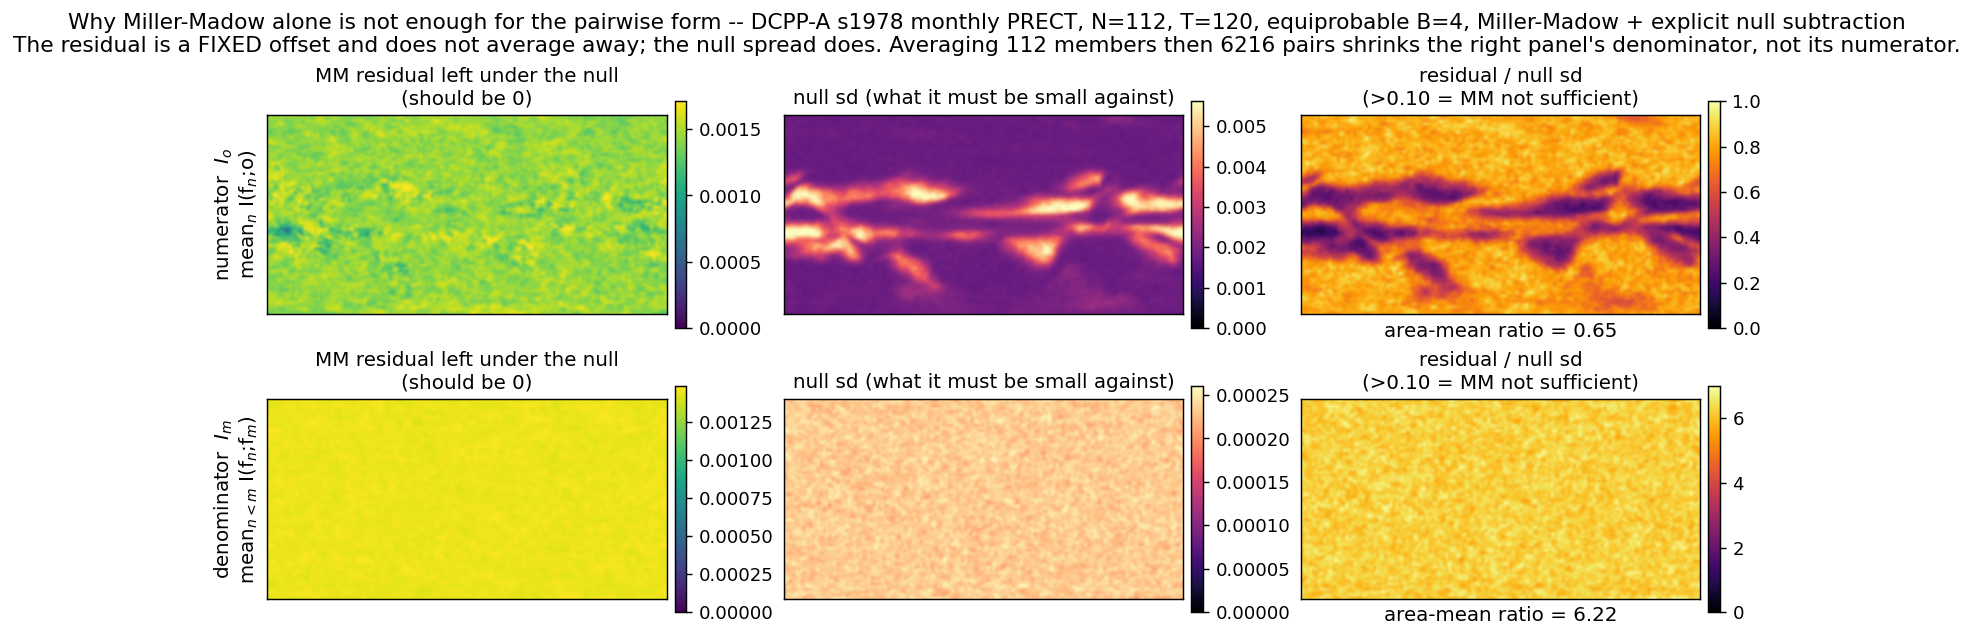
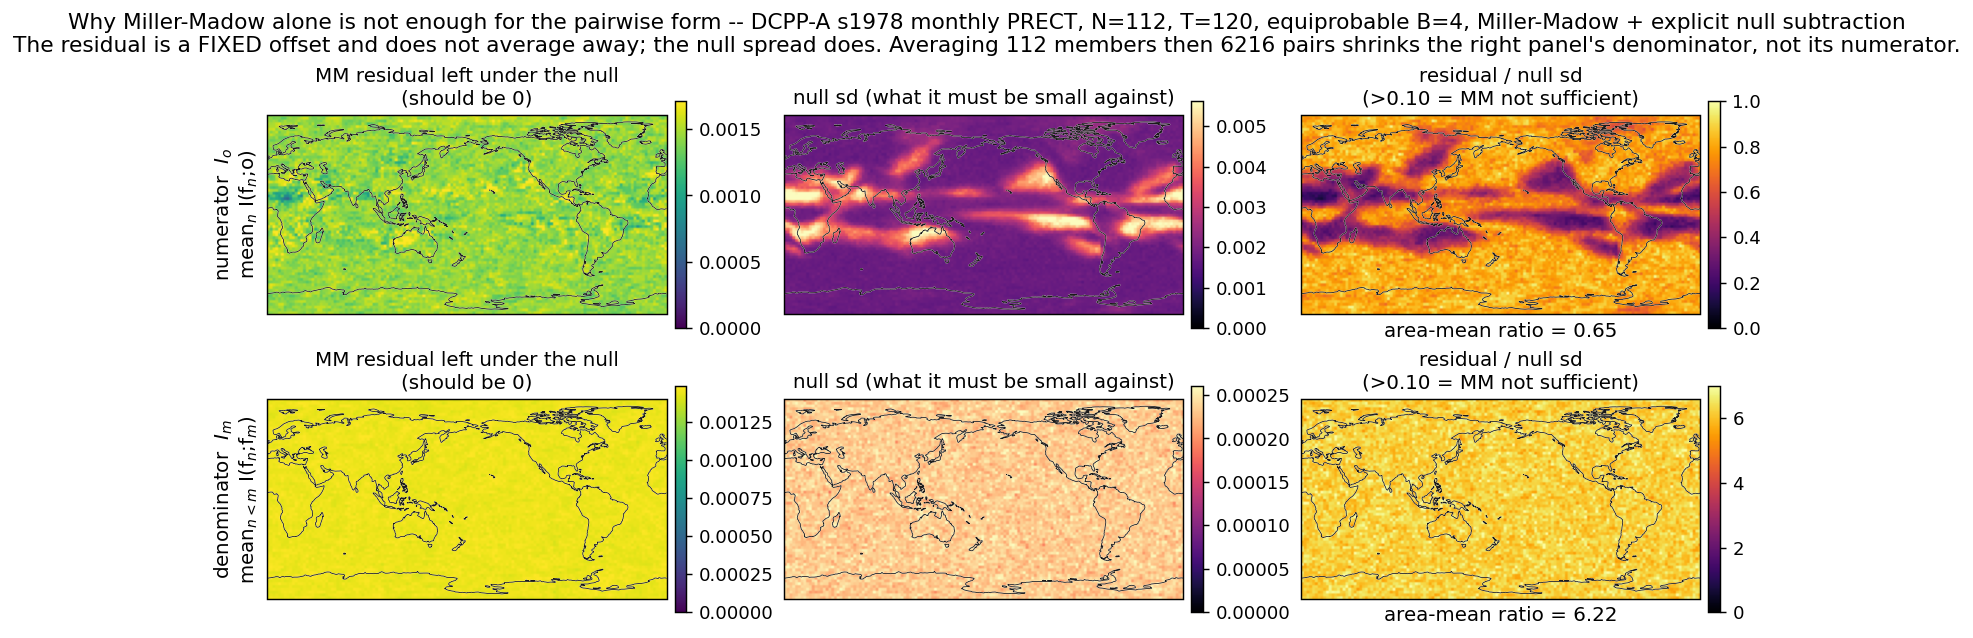
maps: cartopy coastlines on every panel, and all of them the right way up
Two fixes across all seven figure scripts, then every figure in both directories
regenerated: 29 panels sets over SLP s1961/lead2-4 and PRECT s1978/lead2-4.

**Orientation.** The panels handed a (lat, lon) array straight to imshow with no
origin=. The observational grids run lat[0] = -90 upward and matplotlib defaults
to origin="upper", so figA-figF rendered with the South Pole at the top. Every
map is now origin="lower" on a cartopy PlateCarree axes: Arctic top, Antarctic
bottom. figG was already correct and is unchanged in that respect.

**Coastlines.** Natural Earth 110m over every map, stroked twice -- a
translucent white line under a dark one -- because these panels span jet, magma,
inferno and RdBu_r and no single line colour is legible on all four. This turns
several README claims from assertions into things a reader can check: figD's
non-Gaussian excess does sit on the warm pool, the SPCZ, the ITCZ, Amazonia and
the South Asian monsoon, while the estimator-bias panel beside it is visibly
flat.

New .claude/scripts/tmp_mapaxes.py owns the projection, the orientation, the
cell-edge extent and the coastline style, and the other six scripts import it --
one place to change a map convention rather than seven. extent comes from cell
EDGES via the midpoint rule, not centres: on the 5 deg HadSLP2r grid whose
centres run 0..355 a centre-based extent would offset the field 2.5 deg from the
coastline. Longitude still runs 0-360 with the Pacific centred, so these figures
[…]

diff --git a/figures/pairwise-exploratory/README.md b/figures/pairwise-exploratory/README.md
@@ -70,26 +70,37 @@ figC panels remain directly comparable. The ratio panels are unchanged at `RdBu_
 
 ## 3. The non-Gaussian excess — the result that did NOT survive on SLP
 
-`figD_excess_{member,lam_minus_rho}_SLP_s1961_{ksg,mm}`. λ_o − ρ_o with the
-estimator's own bias subtracted, measured against a Gaussian-copula surrogate with the
-same per-pair rank correlation. For a jointly Gaussian pair λ = |ρ| exactly, so this
-is zero under Gaussianity.
+`figD_excess_{member,loo}_SLP_s1961_{ksg,mm}`. λ_o − ρ_o with the estimator's own bias
+subtracted, measured against a Gaussian-copula surrogate with the same per-pair rank
+correlation. For a jointly Gaussian pair λ = |ρ| exactly, so this is zero under
+Gaussianity.
 
 | layout | estimator | λ_o | ρ_o (rank) | raw λ−ρ | estimator bias | **excess** | area +ve |
 |---|---|---|---|---|---|---|---|
-| pairwise (`member`) | KSG | 0.1467 | 0.0883 | +0.0584 | 0.0553 | **+0.0031** | 44.7% |
-| pairwise (`member`) | MM B=4 | 0.0922 | 0.0883 | +0.0039 | 0.0108 | **−0.0069** | 24.8% |
-| LOO (`lam_minus_rho`) | KSG | 0.1607 | 0.1031 | +0.0576 | 0.0467 | **+0.0109** | 46.7% |
-| LOO (`lam_minus_rho`) | MM B=4 | 0.0969 | 0.1031 | −0.0062 | 0.0034 | **−0.0096** | 38.5% |
+| pairwise (`member`) | KSG | 0.1467 | 0.0883 | +0.0584 | 0.0555 | **+0.0029** | 44.9% |
+| pairwise (`member`) | MM B=4 | 0.0922 | 0.0883 | +0.0039 | 0.0109 | **−0.0070** | 25.0% |
+| LOO (`loo`) | KSG | 0.1606 | 0.1031 | +0.0575 | 0.0468 | **+0.0107** | 46.5% |
+| LOO (`loo`) | MM B=4 | 0.0969 | 0.1031 | −0.0062 | 0.0033 | **−0.0095** | 38.8% |
 
 **The excess flips sign between KSG and Miller–Madow**, and is ~10% of ρ_o either way.
 On SLP it therefore cannot be claimed. That constraint is what the PRECT rebuild was
 for, and on PRECT it does not bind — all four configurations there are positive and
 40–65% of ρ_o.
 
-Note the naming: this set's `lam_minus_rho` stem is the **LOO** layout, which the
-PRECT set names `loo`. The files were left under their original names so that the
-prior handoffs' paths still resolve.
+Two bookkeeping notes on this table.
+
+**The excess moves in the fourth decimal between runs, and that is expected.**
+Everything on the data side — λ_o, both ρ_o, the raw difference — reproduces bit for
+bit. Only `estimator_bias` shifts, by ~8e-5, because the Gaussian-copula surrogate
+stream is re-seeded per member block and the block size is a memory choice rather than
+a statistical one. The excess is that bias subtracted, so it inherits the wobble: the
+KSG pairwise figure has read +0.0031 and +0.0029 on two runs. The sign, which is the
+whole point, does not move.
+
+**This set's figD files used to be named `figD_excess_lam_minus_rho_*`.** They are the
+LOO layout, so they are now `figD_excess_loo_*`, matching the PRECT set. Prior
+handoffs that cite `figD_excess_member_SLP_s1961_mm.json` are unaffected — that stem
+is unchanged — and the old names remain in git history.
 
 ## 4. ρ_o is one field measured three ways
 
@@ -175,7 +186,7 @@ invisible at large n — against the known −6/(n+1) bias of the uncorrected g2
 | `figA_pairwise_vs_loo_SLP_{s1961,lead2-4}` | pairwise vs LOO: debiased signal, null sd, z, numerator and denominator |
 | `figB_mm_residual_SLP_{s1961,lead2-4}` | why Miller–Madow alone fails |
 | `figC_pairwise_rpc_SLP_{s1961,lead2-4}` | 3 ρ variants × {pairwise, LOO} × {numerator, denominator, RPC} |
-| `figD_excess_{member,lam_minus_rho}_SLP_s1961_{ksg,mm}` | non-Gaussian excess of the DEPENDENCE, both estimators, both layouts |
+| `figD_excess_{member,loo}_SLP_s1961_{ksg,mm}` | non-Gaussian excess of the DEPENDENCE, both estimators, both layouts |
 | `figE_rho_o_three_ways_SLP_s1961` | pairwise / LOO / ensemble-mean ρ_o |
 | `figF_pairwise_bootstrap_SLP_s1961_B4` | member-subsample bootstrap of the pairwise λ RPC |
 | `figG_marginal_moments_SLP_{s1961,lead2-4}` | MARGINAL distributions: pooled histograms, skewness, excess kurtosis |
@@ -189,15 +200,30 @@ and the original untagged `figA_pairwise_vs_loo.png` / `figB_mm_residual.png` di
 The untagged originals are preserved at
 `$SCRATCH/snp_figs_backup_20260921/pairwise-exploratory/`.
 
-## A caveat that applies to every map in this directory
+## Map conventions
 
-The maps are drawn with `imshow` straight from a `(lat, lon)` array. The observational
-grids run **lat[0] = −90 upward**, and matplotlib's default is `origin="upper"`, so
-every map in figA–figF has the **South Pole at the top**. `figG` passes
-`origin="lower"` and is the right way up. This is a display-only issue — no computed
-number is affected, and the area weights are applied in data space — but the older
-panels are vertically mirrored relative to figG and should be fixed before any of them
-is published.
+Every map panel in this directory is drawn through `tmp_mapaxes.py`, which fixes two
+things that used to be wrong or missing.
+
+**Orientation.** The panels used to hand a `(lat, lon)` array straight to `imshow`
+with no `origin=`. The observational grids run **lat[0] = −90 upward** and
+matplotlib's default is `origin="upper"`, so every map in figA–figF came out with the
+**South Pole at the top**. They are now all `origin="lower"` on a cartopy
+`PlateCarree` axes: **Arctic at the top, Antarctic at the bottom.** This was display
+only — no number in this README changed because of it — but the figures committed
+before this point are vertically mirrored relative to the current ones.
+
+**Coastlines.** Natural Earth coastlines (110 m) are drawn over every map. Each is
+stroked twice, a translucent white line under a dark one, because these panels span
+`jet`, `magma`, `inferno` and `RdBu_r` and no single line colour is legible on all
+four. Without them, claims like "the tropical convective bands" or "the Southern
+Ocean" were assertions a reader could not check.
+
+Longitude runs 0–360 with the Pacific in the middle, which is where the old
+index-space panels put it, so these figures remain horizontally aligned with their
+predecessors. `extent` is built from cell **edges**, not centres — on the 5° HadSLP2r
+grid whose centres run 0–355, a centre-based extent would offset the field half a
+cell from the coastlines.
 
 ## Reproducing
 
@@ -223,6 +249,15 @@ with `--dataset seasonal --lead 2-4 --bins 3` for the seasonal case. Every scrip
 
 `tmp_marginal_moments.py` costs about 1 min for SLP and 3.5 min for PRECT, peaking at
 6.1 GB on the PRECT grid — run it alone, the job's cgroup ceiling is 17.2 GB.
+
+**Every one of those scripts now imports `tmp_mapaxes.py` from the same directory**,
+which owns the projection, the orientation, the cell-edge extent and the coastlines.
+Change a map convention there, once, rather than in seven places. It needs `cartopy`
+(0.25.0 in `VirtualEnv/SNP_env`) and the Natural Earth 110 m coastline shapefile,
+already cached under `~/.local/share/cartopy` — so no download happens at plot time.
+`tmp_mapaxes.grid(var)` reads the observational grid out of the project, which is why
+`tmp_pairwise_figs.py` now needs `SNP_REPO` too: it reads only per-cell npz and had no
+lats/lons of its own to place a coastline against.
 
 Percentages of area throughout are cos(lat)-weighted, including the colour limits of
 figG's maps: an unweighted percentile there is set by the near-polar rows, which carry

diff --git a/figures/pairwise-exploratory-prect/README.md b/figures/pairwise-exploratory-prect/README.md
@@ -63,16 +63,30 @@ Against SLP s1961, same quantity, same code:
 
 | | SLP s1961 | PRECT s1978 |
 |---|---|---|
-| excess, KSG pairwise | +0.0031 | **+0.0559** |
-| excess, MM pairwise | **−0.0069** *(sign flip)* | **+0.0342** |
-| excess as % of ρ_o | 3.5% / −7.8% | **65% / 40%** |
-| share of raw gap that is estimator artefact (KSG) | 81% | **51%** |
+| excess, KSG pairwise | +0.0029 | **+0.0559** |
+| excess, MM pairwise | **−0.0070** *(sign flip)* | **+0.0342** |
+| excess as % of ρ_o | 3.3% / −7.9% | **65% / 40%** |
+| share of raw gap that is estimator artefact, **KSG pairwise** | 95% | **51%** |
 
 Two things changed, and both matter. The excess is an order of magnitude larger
 relative to ρ_o, and **the estimator disagreement is gone** — KSG and Miller–Madow
 differ in magnitude (KSG is the more biased estimator and still reads higher after
 subtraction) but no longer in sign. Half of KSG's raw gap survives the surrogate
-subtraction on PRECT, against a fifth on SLP.
+subtraction on PRECT; on SLP a twentieth of it does.
+
+Two corrections to this table, both made when the figures were regenerated with
+coastlines:
+
+- The last row previously read **81%** for SLP against 51% for PRECT. 81% is SLP's
+  **LOO** value; its pairwise value is 95%, and every other row in the table is
+  pairwise. The row now compares like with like. PRECT is insensitive to the choice
+  (pairwise 51%, LOO 50%); SLP is not (95% against 81%), which is itself worth
+  knowing.
+- The SLP excess figures moved in the fourth decimal (+0.0031 → +0.0029, −0.0069 →
+  −0.0070). The SLP numbers stored previously predate the chunked surrogate loop, and
+  the surrogate stream is re-seeded per block, so the bias term shifts by ~8e-5. The
+  PRECT column reproduced **bit for bit** — it was chunked both times. Signs and
+  conclusions are untouched.
 
 **It is also spatially coherent.** The excess is not diffuse: it concentrates in the
 tropical convective bands — ITCZ, SPCZ, the monsoon regions — which is where
@@ -363,10 +377,23 @@ limit. The decadal denominator takes ~5 h at 6216 pairs × P=200 on this grid.
 `tmp_marginal_moments.py` is the cheap one — ~3.5 min and 6.1 GB peak on the PRECT
 grid, and it reads no `pairnull_*`/`pairdenom_*` npz, going straight to the handles.
 
-**figG's maps are the only ones in either directory drawn the right way up.** The
-observational grids run lat[0] = −90 upward and matplotlib defaults to
-`origin="upper"`, so figA–figF render with the South Pole at the top.
-`tmp_marginal_moments.py` passes `origin="lower"`. Display only — no computed number
-is affected — but the older panels are vertically mirrored relative to figG.
+All of these scripts import **`tmp_mapaxes.py`** from the same directory, which owns
+the projection, the orientation, the cell-edge extent and the coastlines — change a
+map convention there once instead of in seven scripts. It needs `cartopy` (0.25.0 in
+`VirtualEnv/SNP_env`) and the Natural Earth 110 m shapefile, already cached under
+`~/.local/share/cartopy`, so nothing is downloaded at plot time.
+
+**Map conventions.** Every map panel here goes through `tmp_mapaxes.py`: cartopy
+`PlateCarree`, `origin="lower"` so the **Arctic is at the top and the Antarctic at the
+bottom**, and Natural Earth 110 m coastlines stroked white-under-dark so they stay
+legible across `jet`, `magma`, `inferno` and `RdBu_r` alike. `extent` comes from cell
+edges, not centres, so the field registers against the coastline rather than sitting
+half a cell off.
+
+Until this pass, figA–figF passed no `origin=` at all and — because the observational
+grids run lat[0] = −90 upward against matplotlib's `origin="upper"` default —
+rendered with the **South Pole at the top**. That was display only; no number in this
+README changed. But figures committed before this point are vertically mirrored
+relative to the current ones.
 
 Percentages of area throughout are cos(lat)-weighted.
